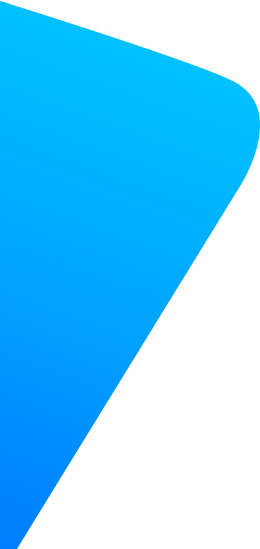
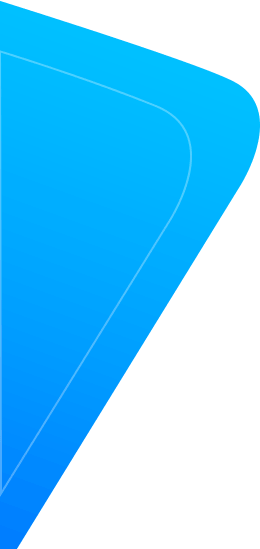
Project-2/Social_Media_Agency/Homepage/our-packages and footer:Desktop:Done

diff --git a/projects/social-media-agency/assets/css/style.css b/projects/social-media-agency/assets/css/style.css
@@ -375,38 +375,73 @@ header.sticky a.btn:hover{border-color:#fff;color:#fff;}
 
 /* Plans
 ------------------------------------------------------------------------------*/
-.our-plans{padding:100px;}
-.our-plans .heading{margin-bottom:50px;}
-.our-plans .plans-info ul.plans-list{display:flex;flex-wrap:wrap;list-style:none;margin:0;padding:0;-webkit-box-shadow:10px 50px 80px 0px rgba(0,0,0,0.19);-moz-box-shadow:10px 50px 80px 0px rgba(0,0,0,0.19);box-shadow:0px 24px 100px 5px rgba(0,0,0,0.08);}
-.our-plans ul.plans-list > li{width:33.33%;border:1px solid #eee;border-radius:10px;padding:0px 30px;}
+.our-plans {padding: 60px 0px 110px 0px;}
+.our-plans .heading {max-width: 600px;margin: 0 auto;margin-bottom: 195px;}
+.our-plans .heading h4 {padding: 0px 100px;margin-bottom: 31px;}
+.our-plans .plans-info {margin-bottom: 80px;}
 
-.our-plans ul.plans-list > li .price {display: flex;align-items: center;justify-content:space-between;padding:30px 0px;border-bottom:4px solid #eee;}
+.our-plans .plans-info ul.plans-list{display:flex;flex-wrap:wrap;list-style:none;margin:0;padding:0;-webkit-box-shadow:10px 50px 80px 0px rgba(0,0,0,0.19);-moz-box-shadow:10px 50px 80px 0px rgba(0,0,0,0.19);box-shadow:0px 24px 100px 5px rgba(0,0,0,0.08);}
+.our-plans ul.plans-list > li{width:33.33%;border:1px solid #eee;border-radius:10px;overflow:hidden;}
+.our-plans ul.plans-list > li.basic{padding:0px 60px 0px 45px}
+.our-plans ul.plans-list > li.standard {padding: 0px 45px 0px 60px;}
+
+.our-plans ul.plans-list > li .price {display: flex;align-items: center;justify-content:space-between;padding:35px 0px;border-bottom:2px solid #eee;}
 .our-plans ul.plans-list > li .price h3,.our-plans ul.plans-list > li .price h5 {margin: 0px;}
 .our-plans ul.plans-list > li .price h3{color:#adacac;}
 .our-plans ul.plans-list > li .price h5{color:#000;}
 
-.our-plans ul.plans-list > li .details{padding:30px 0px;}
-.our-plans ul.plans-list > li .details p{color:#5d5d5d;font-size:14px;margin-bottom:20px;}
+.our-plans ul.plans-list > li .details{padding:46px 0px;}
+.our-plans ul.plans-list > li .details p{color:#5d5d5d;font-size:14px;margin-bottom:43px;}
 .our-plans ul.plans-list > li .details ul{margin:0px;padding:0px;list-style:none;}
-.our-plans ul.plans-list > li .details li{color:#5d5d5d;font-size:14px;position:relative;padding-left:20px;}
-.our-plans ul.plans-list > li .details li:before{content:'';background-image:url(../images/checked-icon-1.png);height:12px;width:12px;position:absolute;left:0px;top:5px;background-size:100%;background-repeat:no-repeat;}
+.our-plans ul.plans-list > li .details li{color:#5d5d5d;font-size:14px;position:relative;padding-left:31px;margin-bottom:4px;}
+.our-plans ul.plans-list > li .details li:before{content:'';background-image:url(../images/checked-icon-1.png);height:14px;width:14px;position:absolute;left:4px;top:6px;background-size:100%;background-repeat:no-repeat;}
+.our-plans ul.plans-list > li .details a.btn{margin-top:24px;padding:13px 28px;font-weight:300;}
+.our-plans ul.plans-list > li .details a.btn:after{display:none;}
 
-.our-plans ul.plans-list > li.premium{transform:scale(1.15);z-index:1;background:#fff;padding:0px;}
-.our-plans ul.plans-list > li.premium .price{border-bottom:none;padding:30px 30px;}
+.our-plans ul.plans-list > li.premium{transform: scale(1.15);z-index: 1;background: #fff;padding: 0px;}
+.our-plans ul.plans-list > li.premium .price{border-bottom:none;padding:23px 40px;}
 .our-plans ul.plans-list > li.premium .price h3{color:#00abff;}
 .our-plans ul.plans-list > li.premium .price h5{color:#33cc66;}
-.our-plans ul.plans-list > li.premium  .details{padding: 30px 30px;background: linear-gradient(180deg,rgba(0,198,255,1) 0%,rgba(0,114,255,1) 100%);}
+.our-plans ul.plans-list > li.premium  .details{padding: 36px 45px;background: linear-gradient(180deg,rgba(0,198,255,1) 0%,rgba(0,114,255,1) 100%);}
 .our-plans ul.plans-list > li.premium .details p,.our-plans ul.plans-list > li.premium .details li{color:#fff;font-size:12px;font-weight:300;}
-.our-plans ul.plans-list > li.premium .details li:before{background-image:url('../images/checked-icon-2.png');}
 
+.our-plans ul.plans-list > li.premium .details p {margin-bottom: 36px;}
+.our-plans ul.plans-list > li.premium .details li {padding-left: 21px;margin-bottom:2px;}
+.our-plans ul.plans-list > li.premium .details li:before{background-image:url(../images/checked-icon-2.png);height:10px;width:11px;position:absolute;left:-3px;top:5px;}
+.our-plans ul.plans-list > li.premium .details a.btn{margin-top: 28px;padding: 10px 20px;background: #fff;color: #0091ff;font-size: 15px;z-index:2;}
+.our-plans ul.plans-list > li.premium .details a.btn:before{z-index:1;box-shadow: 5px 0px 60px 10px rgb(239 243 245);-webkit-box-shadow: 5px 0px 60px 10px rgb(238 242 245);-moz-box-shadow: 5px 0px 60px 10px rgba(0,156,255,1);}
 
-
-
+.our-plans .check-plans {padding: 100px 0px 50px 0px;text-align: center;}
+.our-plans .check-plans h4 {margin-bottom: 51px;}
+.our-plans .check-plans a.btn {min-width: 180px;}
 
 
 /* Footer
 ------------------------------------------------------------------------------*/
-footer{}
+footer{position:relative;overflow:hidden;padding: 100px 0px 0px 0px;margin-top: -100px;}
+footer .footer-wrap{padding:65px 0px 0px 0px;position:relative;width:1170px;margin:0 auto;}
+footer .footer-wrap:before{content:'';background-image:url(../images/footer-before-1.png);left:-226px;top:-98px;height:540px;width:252px;position:absolute;z-index:-1;background-repeat:no-repeat;background-size:100%;}
+footer .footer-wrap:after { content: ''; background-image: url(../images/footer-before-2.png); position: absolute; z-index: 2; right: -250px; top: 71px; height: 358px; width: 275px; background-repeat: no-repeat; background-size: 100%; }
+
+footer .inner-wrap{position:relative;}
+footer .inner-wrap:before{content:'';background:rgba(255,255,255,0.8);height:100%;width:1350px;position:absolute;right:0;left:-87px;top:-70px;transform:perspective(51px) rotateX(1.2deg);margin:0 auto;z-index:0;box-shadow:0 -28px 67px 0px rgba(0,156,255,0.1);-webkit-box-shadow:0 -28px 67px 0px rgba(0,156,255,0.1);-moz-box-shadow:0 -28px 67px 0px rgba(0,156,255,0.1);border-top-left-radius:60px;border-top-right-radius:60px;}
+footer .inner-wrap:after{content:'';position:absolute;height:0%;width:80%;top:124px;left:0;right:0;background:transparent;box-shadow:0 34px 134px 143px rgba(0,156,255,0.2);-webkit-box-shadow:0 34px 134px 143px rgba(0,156,255,0.2);-moz-box-shadow:0 34px 134px 143px rgba(0,156,255,0.2);border-radius:10%;margin:0 auto;opacity:0.3;}
+footer .container{position:relative;}
+footer .main-footer{display:flex;flex-wrap:wrap;}
+footer .main-footer .footer-links {width: 62%;}
+footer .main-footer .footer-about {width: 38%;padding: 0px;margin: 0px;	}
+footer .main-footer .footer-links ul{padding:0px;margin:0px;list-style:none;}
+footer .main-footer .footer-links > ul{display:flex;flex-wrap:wrap;}
+footer .main-footer .footer-links > ul >li{width:20%;}
+footer .main-footer .footer-links > ul >li >ul >li {margin-bottom: 13px}
+footer .main-footer li,footer .main-footer p {font-size: 14px;padding:0px;margin:0px;}
+footer .main-footer h6 {font-size: 16px;margin-bottom: 19px;}
+
+footer .footer-about h6 {margin-bottom: 12px;}
+footer .footer-about p {line-height: 35px;}
+
+footer .copywrite {padding: 7px 0px;text-align: center;}
+footer .copywrite p {font-size: 14px;}
 
 
 /* Animation

diff --git a/projects/social-media-agency/index.html b/projects/social-media-agency/index.html
@@ -277,7 +277,7 @@
 
         <!-- Plans -->        
 		
-<!-- 		<section class="our-plans">
+		<section class="our-plans">
 			<div class="container">
             	<div class="heading">
             		<h4>Choose a package tailored to your needs</h4>
@@ -335,84 +335,88 @@
             			</li>              			            			           			            			             			          			
             		</ul>
             	</div>  
-            	<div>
+            	<div class="check-plans">
             		<h4>Check all available packages</h4>
             		<a href="javascript:void(0);" class="btn">Pricing</a>
             	</div>          	
 			</div>
-        </section>    -->      
+        </section>         
 
         <!-- Footer -->        
     	
-<!--     	<footer>
-            <div class="container"> 
-            	<div class="main-footer">
-            		<div class="footer-links">
-            			<ul>
-            				<li>
-            					<h6>Plans</h6>
-            					<ul>
-									<li> <a href="#">Free</a></li>
-									<li> <a href="#">Basic</a></li>
-									<li> <a href="#">Standard</a></li>
-									<li> <a href="#">Premium +</a></li>
-									<li> <a href="#">Team</a></li>
-									<li> <a href="#">Business</a></li>
-									<li> <a href="#">Enterprise</a></li>
-									<li> <a href="#">Compare Plans</a></li>									            							
-            						</li>
-            					</ul>
-            				</li>
-            				<li>
-            					<h6>Company</h6>
-            					<ul>
-									<li> <a href="#">Contact Us</a></li>
-									<li> <a href="#">Help</a></li>
-									<li> <a href="#">Careers</a></li>
-									<li> <a href="#">Leadership</a></li>
-            						</li>
-            					</ul>
-            				</li>
-            				<li>
-            					<h6>Platform</h6>
-            					<ul>
-									<li> <a href="#">Features</a></li>
-									<li> <a href="#">Networks</a></li>
-									<li> <a href="#">App Directory</a></li>
-									<li> <a href="#">What’s New</a></li>																	            							
-            						</li>
-            					</ul>
-            				</li>
-            				<li>
-            					<h6>Education</h6>
-            					<ul>
-									<li> <a href="#">Academy</a></li>
-									<li> <a href="#">Resources</a></li>
-									<li> <a href="#">Blog</a></li>
-									<li> <a href="#">Webinars</a></li>	
-            						</li>
-            					</ul>
-            				</li>
-            				<li>
-            					<h6>Enterprise</h6>
-            					<ul>
-									<li> <a href="#">Solutions</a></li>
-									<li> <a href="#">Industries</a></li>								            							
-            						</li>
-            					</ul>
-            				</li>            				            				            				            				
-            			</ul>
-            		</div>
-            		<dir class="footer-about">
-            			<h6>About Us</h6>            			
-            			<p>Lorem ipsum dolor sit amet, consectetur adipisicing elit, sed do eiusmod tempor incididunt ut labore et dolore magna aliqua. Ut enim ad minim veniam, quis nostrud exercitation ullamco laboris nisi ut aliquip ex ea commodo consequat.</p>
-            		</dir>
-            	</div>
-            	<div class="copywrite">
-            		<p>@2019. <a href="#">Hogash Studio</a> ~ All Rights Reserved.</p>
-            	</div>            	  
-            </div>
-    	</footer> -->
+    	<footer>
+    		<div class="footer-wrap">
+	    		<div class="inner-wrap">
+		            <div class="container"> 
+		            	<div class="main-footer">
+		            		<div class="footer-links">
+		            			<ul>
+		            				<li>
+		            					<h6>Plans</h6>
+		            					<ul>
+											<li> <a href="#">Free</a></li>
+											<li> <a href="#">Basic</a></li>
+											<li> <a href="#">Standard</a></li>
+											<li> <a href="#">Premium +</a></li>
+											<li> <a href="#">Team</a></li>
+											<li> <a href="#">Business</a></li>
+											<li> <a href="#">Enterprise</a></li>
+											<li> <a href="#">Compare Plans</a></li>									            							
+		            						</li>
+		            					</ul>
+		            				</li>
+		            				<li>
+		            					<h6>Company</h6>
+		            					<ul>
+											<li> <a href="#">Contact Us</a></li>
+											<li> <a href="#">Help</a></li>
+											<li> <a href="#">Careers</a></li>
+											<li> <a href="#">Leadership</a></li>
+		            						</li>
+		            					</ul>
+		            				</li>
+		            				<li>
+		            					<h6>Platform</h6>
+		            					<ul>
+											<li> <a href="#">Features</a></li>
+											<li> <a href="#">Networks</a></li>
+											<li> <a href="#">App Directory</a></li>
+											<li> <a href="#">What’s New</a></li>																	            							
+		            						</li>
+		            					</ul>
+		            				</li>
+		            				<li>
+		            					<h6>Education</h6>
+		            					<ul>
+											<li> <a href="#">Academy</a></li>
+											<li> <a href="#">Resources</a></li>
+											<li> <a href="#">Blog</a></li>
+											<li> <a href="#">Webinars</a></li>	
+		            						</li>
+		            					</ul>
+		            				</li>
+		            				<li>
+		            					<h6>Enterprise</h6>
+		            					<ul>
+											<li> <a href="#">Solutions</a></li>
+											<li> <a href="#">Industries</a></li>								            							
+		            						</li>
+		            					</ul>
+		            				</li>            				            				            				            				
+		            			</ul>
+		            		</div>
+		            		<dir class="footer-about">
+		            			<h6>About Us</h6>            			
+		            			<p>Lorem ipsum dolor sit amet, consectetur adipisicing elit, sed do eiusmod tempor incididunt ut labore et dolore magna aliqua. Ut enim ad minim veniam, quis nostrud exercitation ullamco laboris nisi ut aliquip ex ea commodo consequat.</p>
+		            		</dir>
+		            	</div>
+		            	<div class="copywrite">
+		            		<p>@2019. <a href="#">Hogash Studio</a> ~ All Rights Reserved.</p>
+		            	</div>            	  
+		            </div>
+	        	</div>
+        	</div>
+    	</footer>
 
     </main>
         

diff --git a/projects/social-media-agency/assets/css/responsive.css b/projects/social-media-agency/assets/css/responsive.css
@@ -79,6 +79,25 @@
 	.how-easy .service-info ul.service-list li h6{margin-bottom:9px;color:#fff;}
 	.how-easy .service-info ul.service-list li p{padding:0px 78px;margin-bottom:16px;}	
 
+	/* Footer
+	------------------------------------------------------------------------------*/
+	footer{padding: 100px 0px 0px 0px;margin-top: -100px;}
+	footer .footer-wrap{padding:65px 0px 0px 0px;width: 2017px;}
+	footer .footer-wrap:before{left:51px;top:-103px;height:760px;width:258px;}
+	footer .footer-wrap:after{right:51px;top:22px;height:681px;width:324px;}
+	footer .inner-wrap:before{height:100%;width:1642px;left:-9px;top:-70px;transform:perspective(51px) rotateX(1.2deg);border-top-left-radius: 60px;border-top-right-radius: 60px;}
+	footer .inner-wrap:after{height:0%;width:80%;top:124px;}
+	footer .main-footer .footer-links {width: 62%;}
+	footer .main-footer .footer-about {width: 38%;padding-right:0px;}
+	footer .main-footer .footer-links > ul >li{width:20%;}
+	footer .main-footer .footer-links > ul >li >ul >li {margin-bottom: 13px}
+	footer .main-footer h6 {font-size: 16px;margin-bottom: 19px;}
+
+	footer .footer-about h6 {margin-bottom: 12px;}
+	footer .footer-about p {line-height: 35px;}
+
+	footer .copywrite {padding: 7px 0px;text-align: center;}
+
 
 
 }
